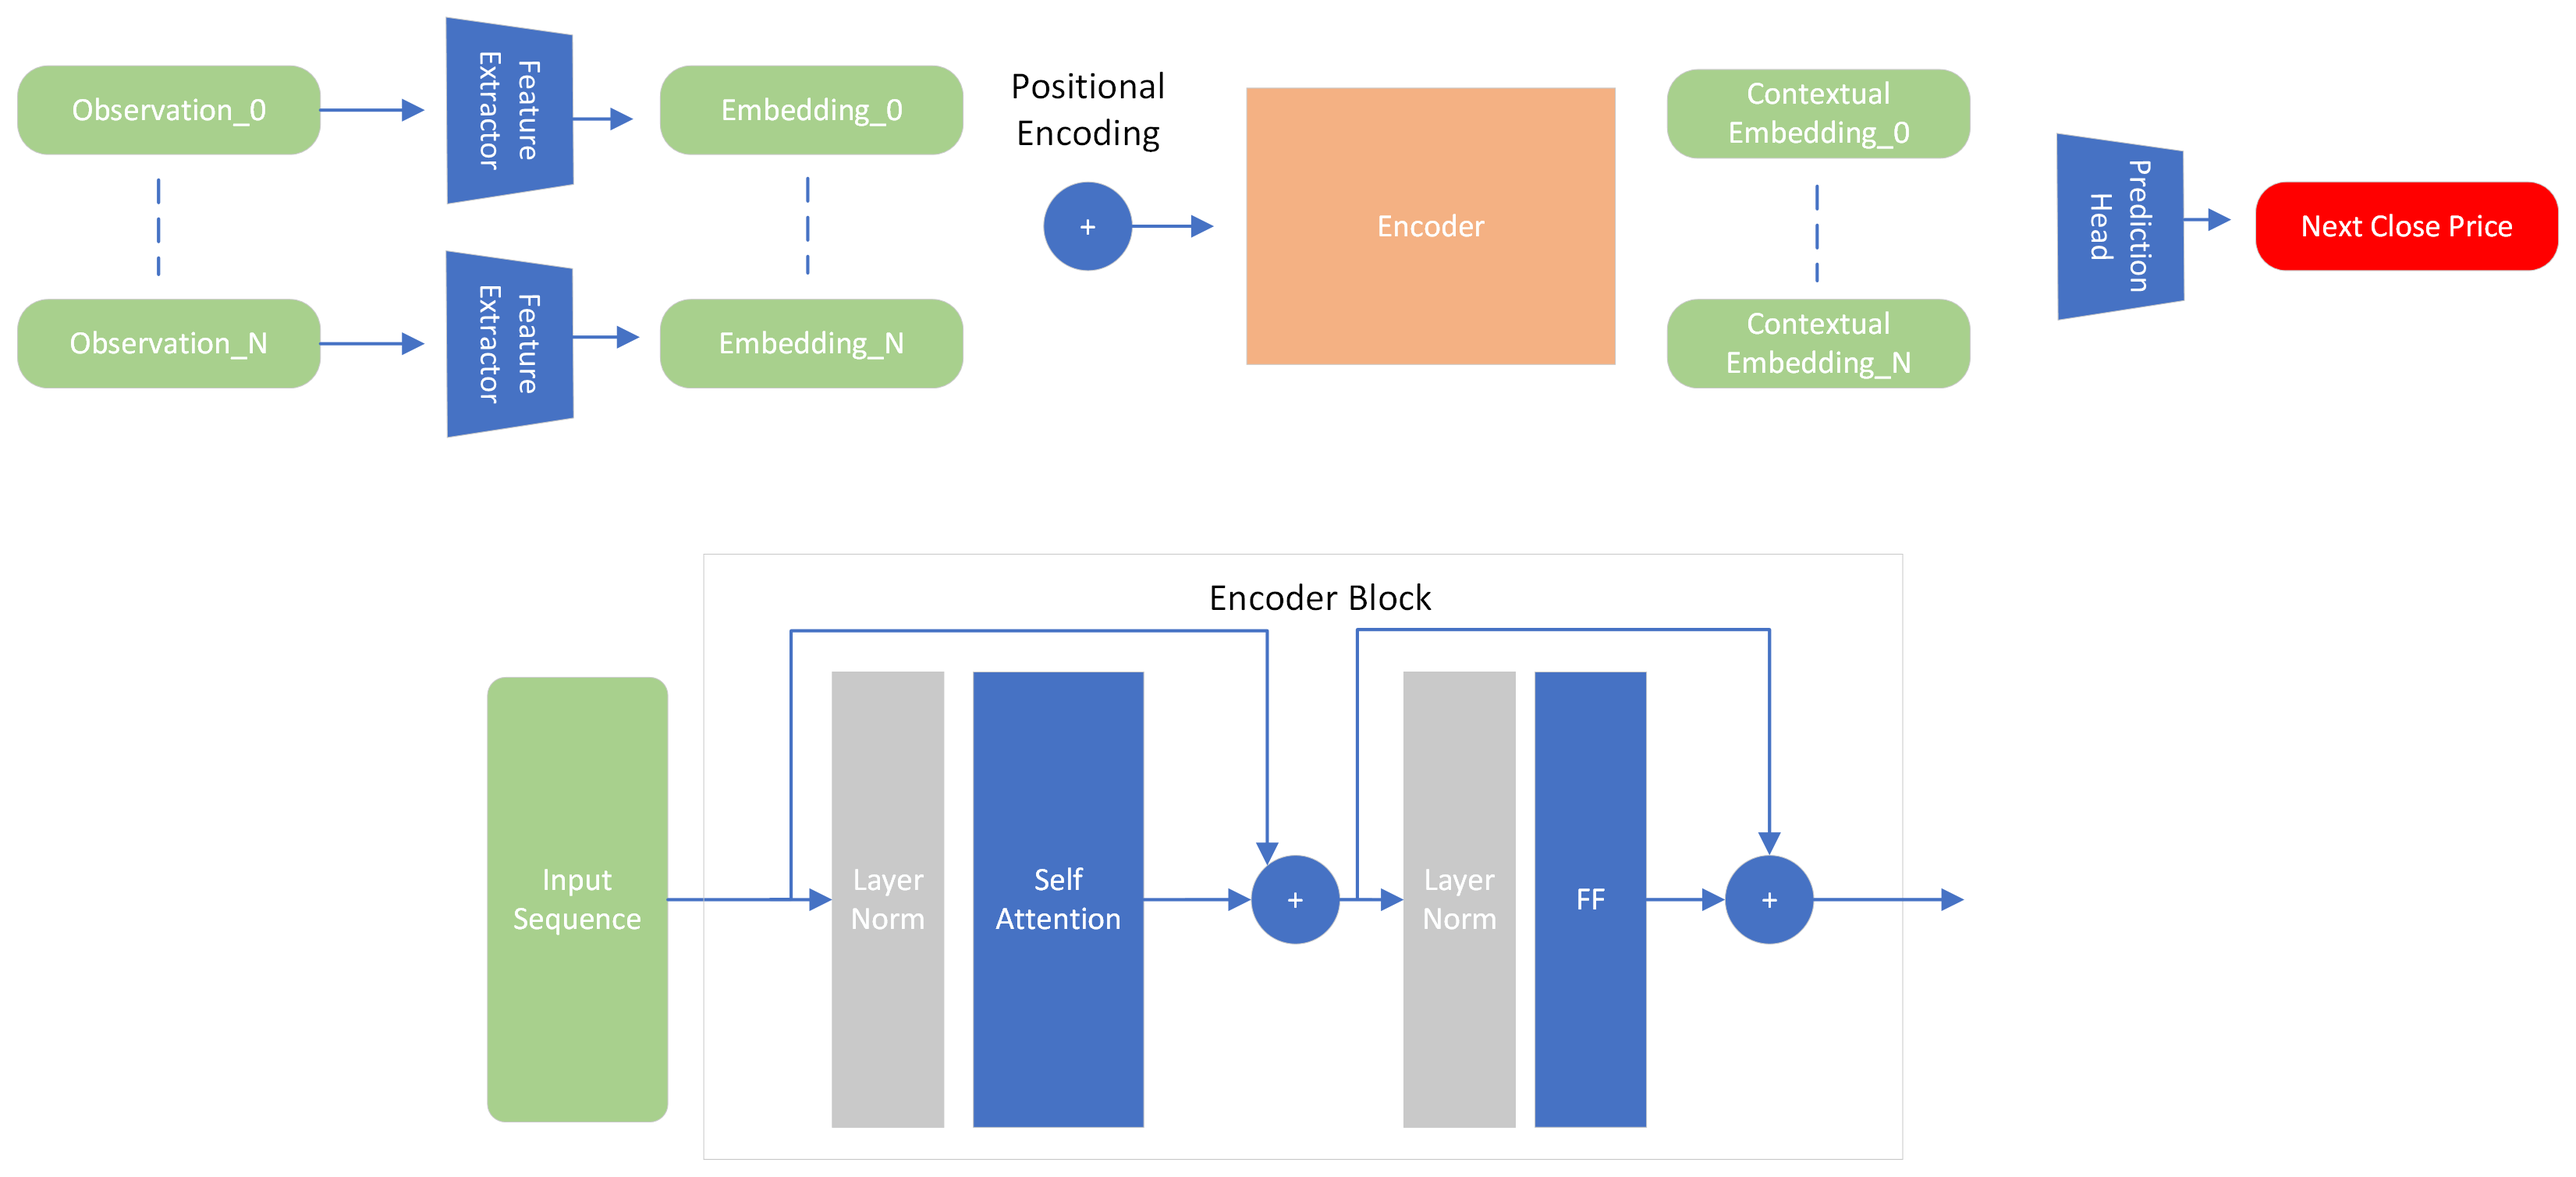
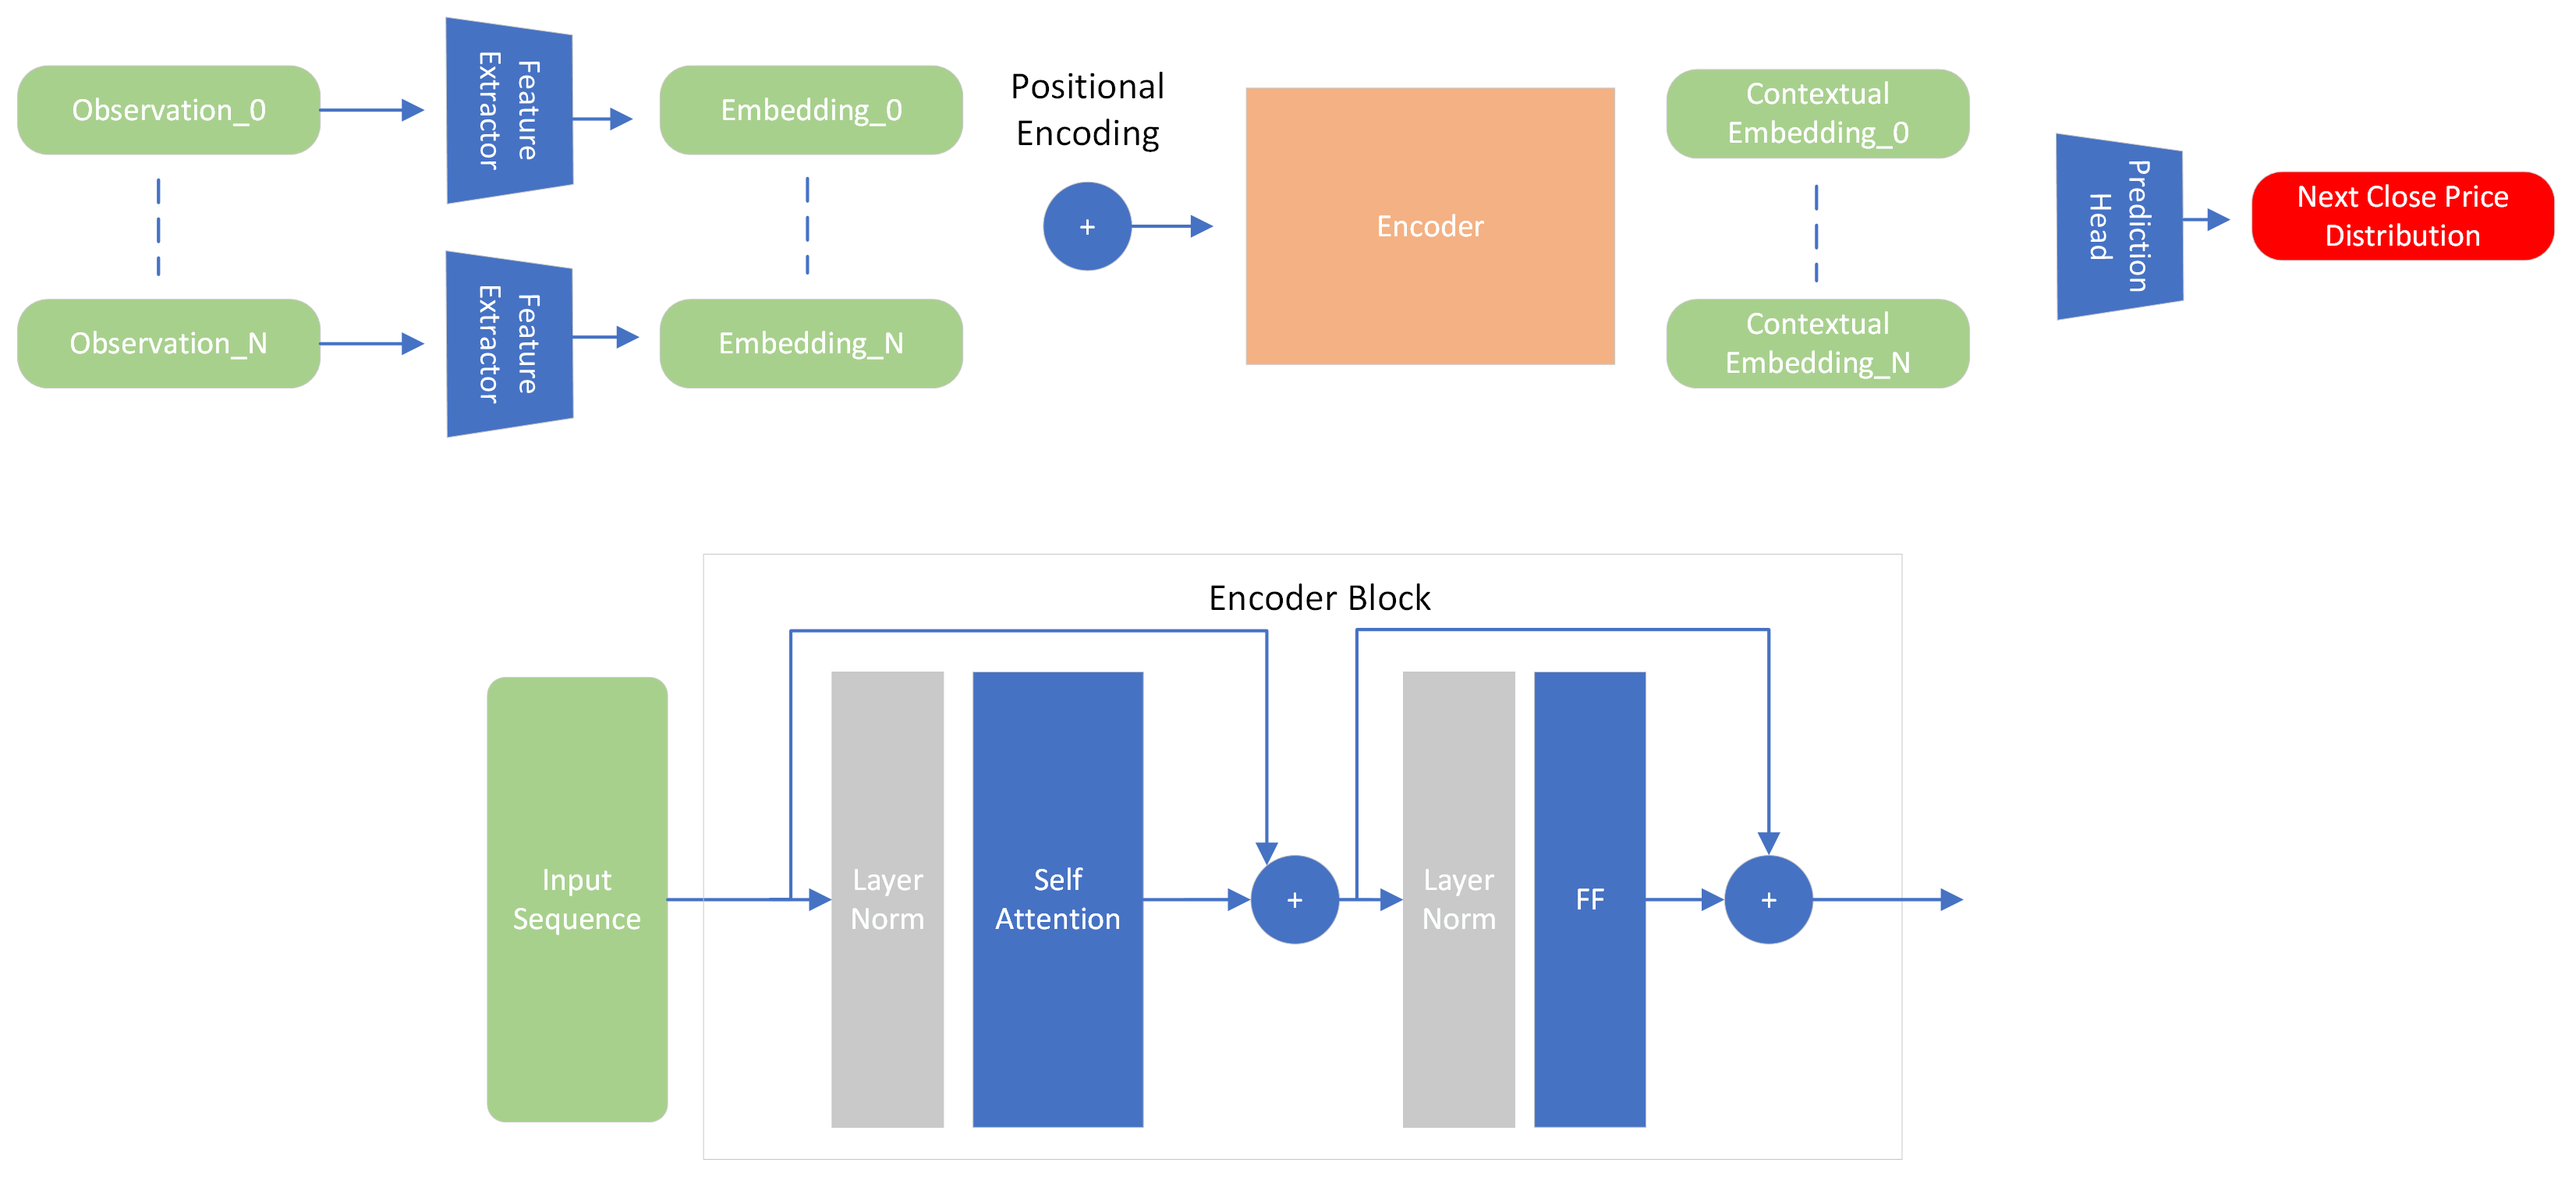
Add tensorboard support and logger to trainer class, increase time resolution for predictions

diff --git a/training_config.py b/training_config.py
@@ -5,10 +5,10 @@ model_config = ModelConfig(
     d_model=64,
     num_layers=2,
     head_layers=2,
-    n_heads=2,
+    n_heads=4,
     dim_feedforward=4*64,  # 4 * d_model
     dropout=0.05,
-    max_seq_len=40,
+    max_seq_len=30,
     input_features=5,
     flatten_encoder_output=False
 )
@@ -16,13 +16,13 @@ model_config = ModelConfig(
 config = Config(
     model_config=model_config,
     log_dir="results",
-    experiment_name="distribution",
+    experiment_name="distribution_v2",
     num_epochs=100,
-    learning_rate=5e-4,
-    warmup_epochs=20,
+    learning_rate=3e-4,
+    warmup_epochs=15,
     dataset_path="./data/BTCUSD.csv",
     batch_size=128,
-    test_split=0.2,
+    test_split=0.1,
     seed=0,
     normalizer_mode="window"
 )

diff --git a/src/jaxer/utils/trainer.py b/src/jaxer/utils/trainer.py
@@ -142,9 +142,9 @@ class FlaxTrainer(TrainerBase):
 
             """ Logging """
             for key, value in metrics.items():
-                self._summary_writer.add_scalar(f"Train/{key}", value, epoch)
+                self._summary_writer.add_scalar(f"train/{key}", value, epoch)
             for key, value in test_metrics.items():
-                self._summary_writer.add_scalar(f"Test/{key}", value, epoch)
+                self._summary_writer.add_scalar(f"test/{key}", value, epoch)
             
             self.logger.info(f"Epoch: {epoch} \n"
                 f"                  Learning Rate: {metrics['lr']:.2e} \n"

diff --git a/src/jaxer/utils/plotter.py b/src/jaxer/utils/plotter.py
@@ -29,7 +29,7 @@ def plot_predictions(input: jnp.ndarray, y_true: jnp.ndarray, y_pred: jnp.ndarra
     fig = plt.figure(figsize=(20, 12))
 
     # Crear un GridSpec con dos filas y tres columnas
-    gs = gridspec.GridSpec(2, 3, height_ratios=[1, 2])
+    gs = gridspec.GridSpec(2, 3, height_ratios=[1, 1])
 
     # Añadir subplots
     ax0 = plt.subplot(gs[0, :])  # El primer gráfico abarca todas las columnas

diff --git a/README.md b/README.md
@@ -20,6 +20,7 @@ Render of a transformer model as a hologram, projecting from a digital device, w
     - **Encoder** only (next day prediction) ✔
     - **Encoder + Decoder** (N days predictions)
 - Create an agent that loads the model and act as a predictor ✔
+- Add tensorboard support to the trainer class ✔
 - Add a logger to the trainer class ✔
 - Add a lr scheduler to the trainer class: warmup cosine scheduler ✔
 - Make the prediction head output a distribution instead of a single value to cover uncertainaty ✔
@@ -54,7 +55,7 @@ The dataset has been downloaded from [Yahoo Finance](https://es.finance.yahoo.co
 
 The available information is:
 - Low/High price
-- Close price -> Open price will not be used as it is the same as the previous close price, so information is redundant.
+- Close price -> Open price will not be used as it is the same as the previous close price. We want to avoid redundant information.
 - Volume
 - Adjusted close price
 
@@ -108,14 +109,15 @@ In order to analyze and compare results, several metrics have been considered:
 - **MAE**: Mean Absolute Error. The lower the value, the better the model as the mean of the distribution is closer to the real value.
 - **R2**: R2 Score. The higher the value, the better the model as the model explains more variance of the data.
 
-The best test results are shown in the following table. The evaluation is computed on the test set which is the 20% of the whole dataset.
+The best test results are shown in the following table. The evaluation is computed on the test set which is the 10% of the whole dataset.
 | Model | NLL | MAE | R2 |
 |:-------:|:-----:|:-----:|:----:|
 | Encoder | -0.8547 | 0.0704 | 0.8818 |
 | Encoder + Decoder | - | - | -      |
 
 
-Some of the predictions are shown below:
+Some of the predictions are shown below. As we are predicting a distirbution, the 95% confidence interval is shown in the plots in order to have a better understanding of the uncertainty of the model. The upper and lower bounds are computed as ```[mean + 1.96*std, mean - 1.96*std]``` respectively.
+
 ![Jaxer Predictions 1](./data/1.png)
 
 ![Jaxer Predictions 2](./data/4.png)
@@ -124,15 +126,17 @@ Some of the predictions are shown below:
 
 ## Conclusions
 - Jax and Flax are easy to use once you learn the basics. I have tried to make the code as simple as possible so it can be easily understood, encapsulating the complexity of the libraries.
-- The model is not able to predict very accurately the price of BTC. It may be related to the scarcity of the variables used to predict the price. It would be interseting to add some market news or other variables to the model.
-- The general idea from this repo is that the transformer can be applied to time series prediction, and can be implemented with state of the art libraries such as Jax and Flax from DeepMind. 
+- The model performance is not bad at all considering the input information that feeds the model. However, dataset size is small due to one day resolution. Increasing resolution may improve the model performance. 
+- The general idea from this repo is that the transformer can be applied to time series prediction, and can be implemented with state of the art gpu accelerated deep learning libraries such as Jax and Flax. 
 
 ## Future Work
 - Compare the model against other models such as LSTM or GRU.
+- Increase time resolution to predict intraday prices (e.g. 1h).
 - Add more variables to the model to improve accuracy such as market sentiment analysis. 
 - Compare speed and performance against other libraries such as PyTorch or Tensorflow.
 
 ## Contributors
 Rodrigo Sánchez Molina
 - Email: rsanchezm98@gmail.com
-- [Linkedin](https://www.linkedin.com/in/rsanchezm98/)
+- Linkedin: [rsanchezm98](https://www.linkedin.com/in/rsanchezm98/)
+- Github: [rsanchezmo](https://github.com/rsanchezmo)
